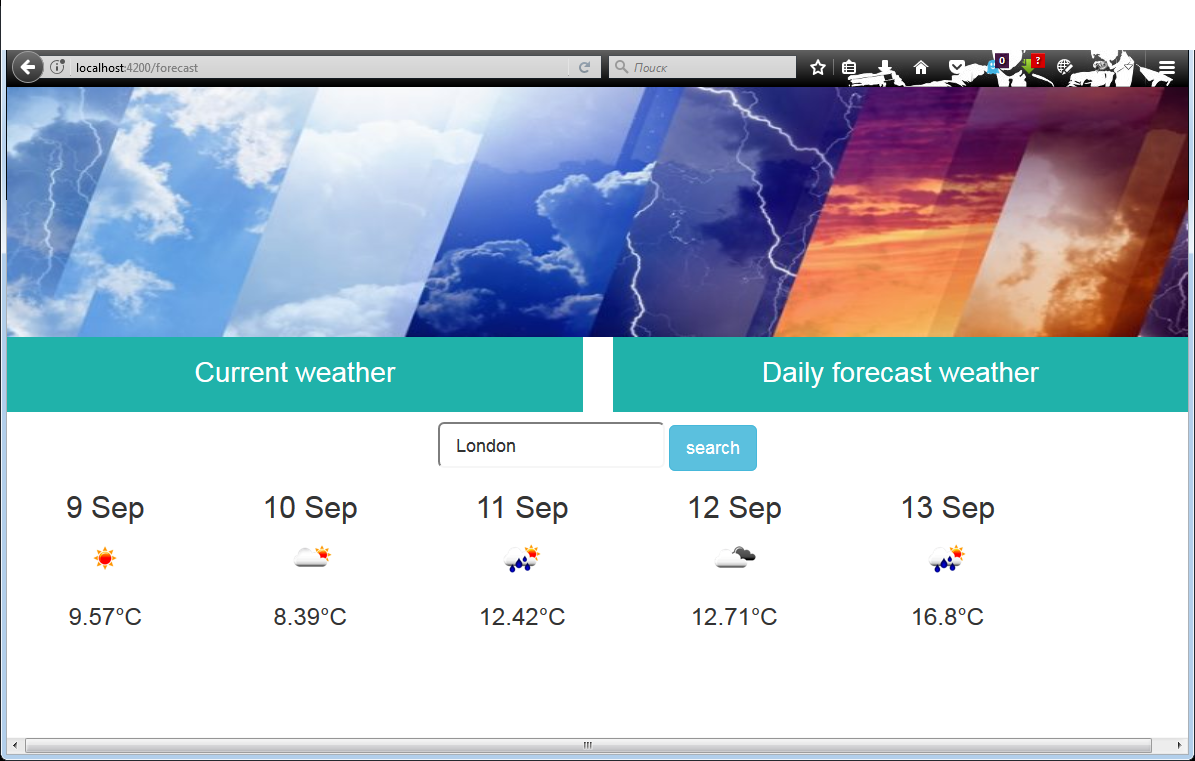
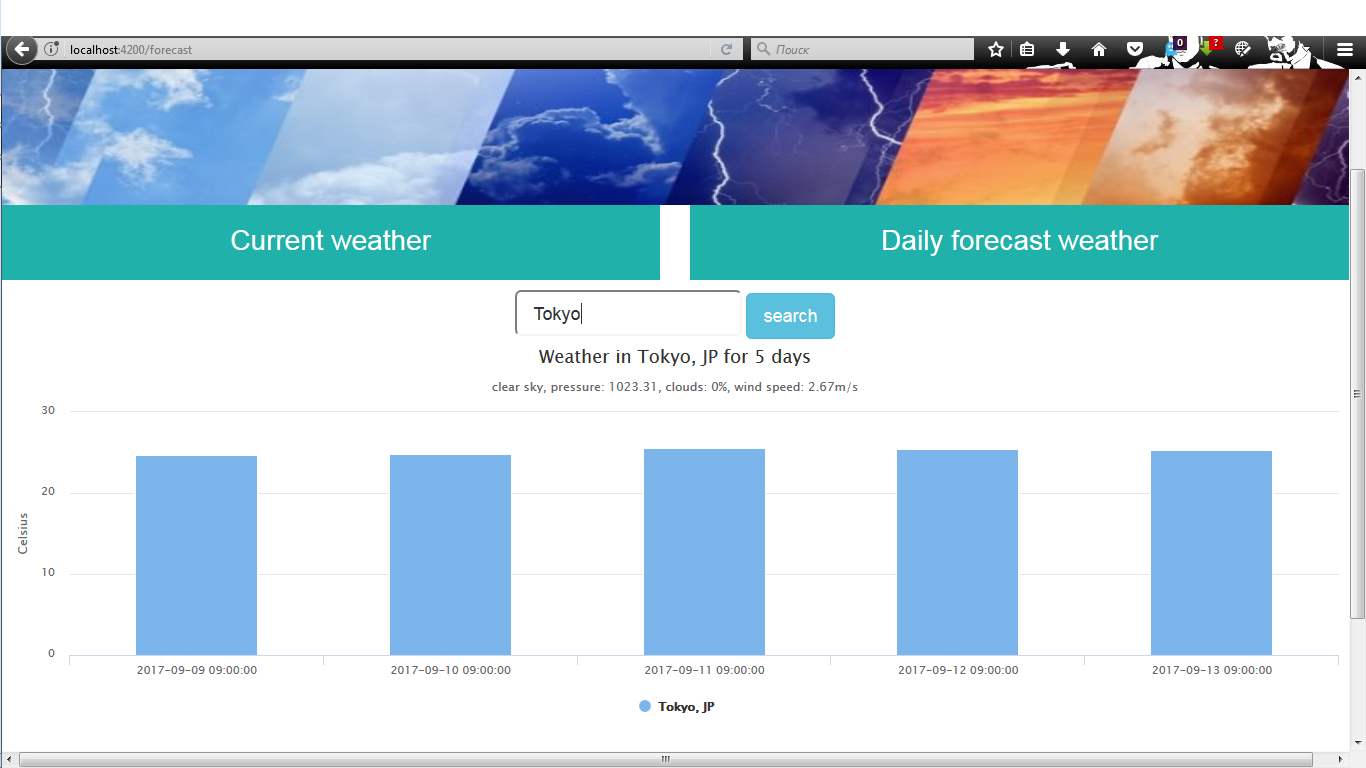
chart for weather forecast

diff --git a/src/app/forecast/forecast.component.ts b/src/app/forecast/forecast.component.ts
@@ -1,3 +1,4 @@
+import { validate } from 'codelyzer/walkerFactory/walkerFn';
 import { CurrentWeather } from '../current-weather';
 import { FormControl, FormGroup } from '@angular/forms';
 import { Component, OnInit } from '@angular/core';
@@ -5,6 +6,8 @@ import 'rxjs/Rx';
 
 import { WeatherService } from '../weather.service';
 import { Forecast } from '../forecast';
+import { ChartModule, Chart } from 'angular-highcharts';
+
 
 @Component({
   selector: 'wa-forecast',
@@ -17,24 +20,74 @@ export class ForecastComponent implements OnInit {
 
   forecastForm: FormGroup;
   cityForecast: Forecast[] = [];
+  chart: Chart;
 
   ngOnInit() {
     this.forecastForm = new FormGroup({
-      forecastCity: new FormControl('Dnipropetrovsk')
+      forecastCity: new FormControl('')
     })
+    
   }
 
   onSubmit(){
+    
     this.cityForecast.splice(0, this.cityForecast.length);
     this.ws.forecast(this.forecastForm.value.forecastCity).subscribe(
       (data) => {
+        console.log(data);
         for(let i = 3; i < data.list.length; i+= 8 ){
-          const temporary = new Forecast(data.list[i].dt_txt,
-                                        data.list[i].weather[0].icon,
-                                         data.list[i].main.temp)
+          const temporary = new Forecast(data.city.name + ', ' + data.city.country,
+                                         data.list[i].dt_txt,
+                                         data.list[i].weather[0].icon,
+                                         data.list[i].main.temp,
+                                         data.list[i].weather[0].description,
+                                         data.list[i].main.pressure,
+                                         data.list[i].clouds.all,
+                                         data.list[i].wind.speed)
           this.cityForecast.push(temporary);
         }
-        console.log(this.cityForecast);
+        this.chart = new Chart({
+          chart: {
+            type: 'column'
+          },
+          title: {
+             text: 'Weather in '+this.cityForecast[0].city+' for 5 days'
+          },
+          subtitle: {
+            text: this.cityForecast[0].description+
+            ', pressure: '+this.cityForecast[0].pressure+
+            ', clouds: '+this.cityForecast[0].clouds+
+            '%, wind speed: '+this.cityForecast[0].windSpeed+'m/s'
+          },
+          xAxis: {
+            categories: [
+              this.cityForecast[0].day,
+              this.cityForecast[1].day,
+              this.cityForecast[2].day,
+              this.cityForecast[3].day,
+              this.cityForecast[4].day,
+            ]
+          },
+          yAxis: {
+            title: {
+              text: 'Celsius'
+            }
+        },
+          credits: {
+            enabled: false
+          },
+          series: [{
+            name: this.cityForecast[0].city,
+            data: [
+              +this.cityForecast[0].temp,
+              +this.cityForecast[1].temp,
+              +this.cityForecast[2].temp,
+              +this.cityForecast[3].temp,
+              +this.cityForecast[4].temp,
+            ]
+          }]        
+        });
+        
       }
     )
   }

diff --git a/src/app/app.module.ts b/src/app/app.module.ts
@@ -11,6 +11,7 @@ import { CurrentComponent } from './current/current.component';
 import { weatherRouting } from './weather.routing';
 import { WeatherService } from './weather.service';
 import { ResolveLocationService } from './resolve-location.service';
+import { ChartModule } from 'angular-highcharts';
 
 
 @NgModule({
@@ -25,7 +26,8 @@ import { ResolveLocationService } from './resolve-location.service';
     FormsModule,
     HttpModule,
     weatherRouting,
-    ReactiveFormsModule
+    ReactiveFormsModule,
+    ChartModule
   ],
   providers: [WeatherService, ResolveLocationService],
   bootstrap: [AppComponent]

diff --git a/src/app/forecast.ts b/src/app/forecast.ts
@@ -1,5 +1,10 @@
 export class Forecast {
-    constructor(public day: string,
+    constructor(public city: string,
+                public day: string,
                 public icon: string,
-                public temp: string) {}
+                public temp: string,
+                public description: string,
+                public pressure: string,
+                public clouds: string,
+                public windSpeed: string,) {}
 }

diff --git a/src/app/forecast/forecast.component.html b/src/app/forecast/forecast.component.html
@@ -7,6 +7,7 @@
   </div>
 </div>
 
+<div [chart]="chart"></div>
 
 <div>
   <div class="day" *ngFor="let day of cityForecast">
